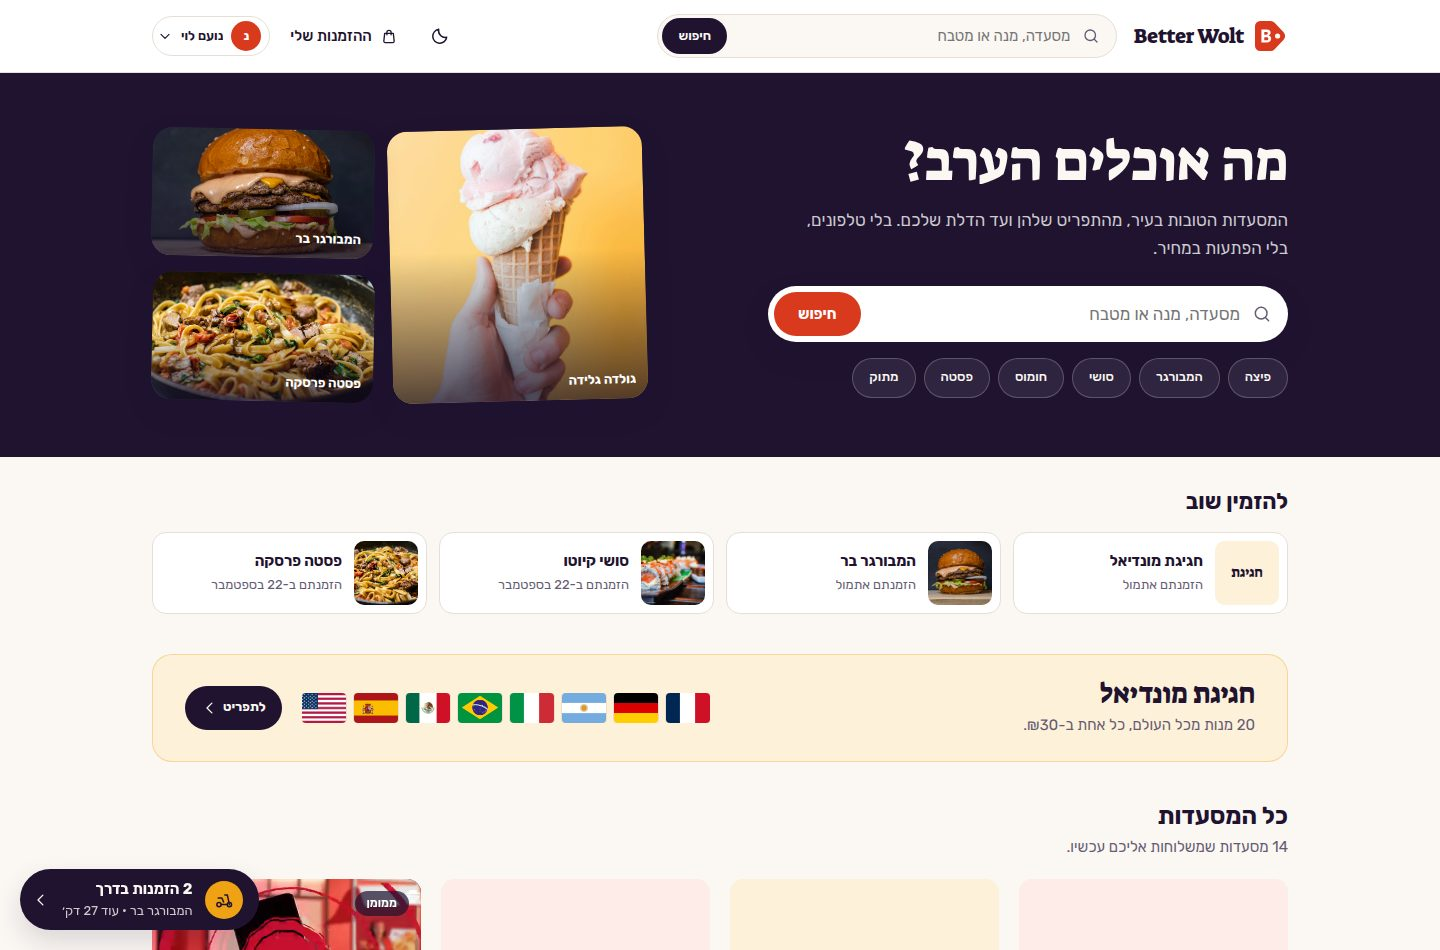
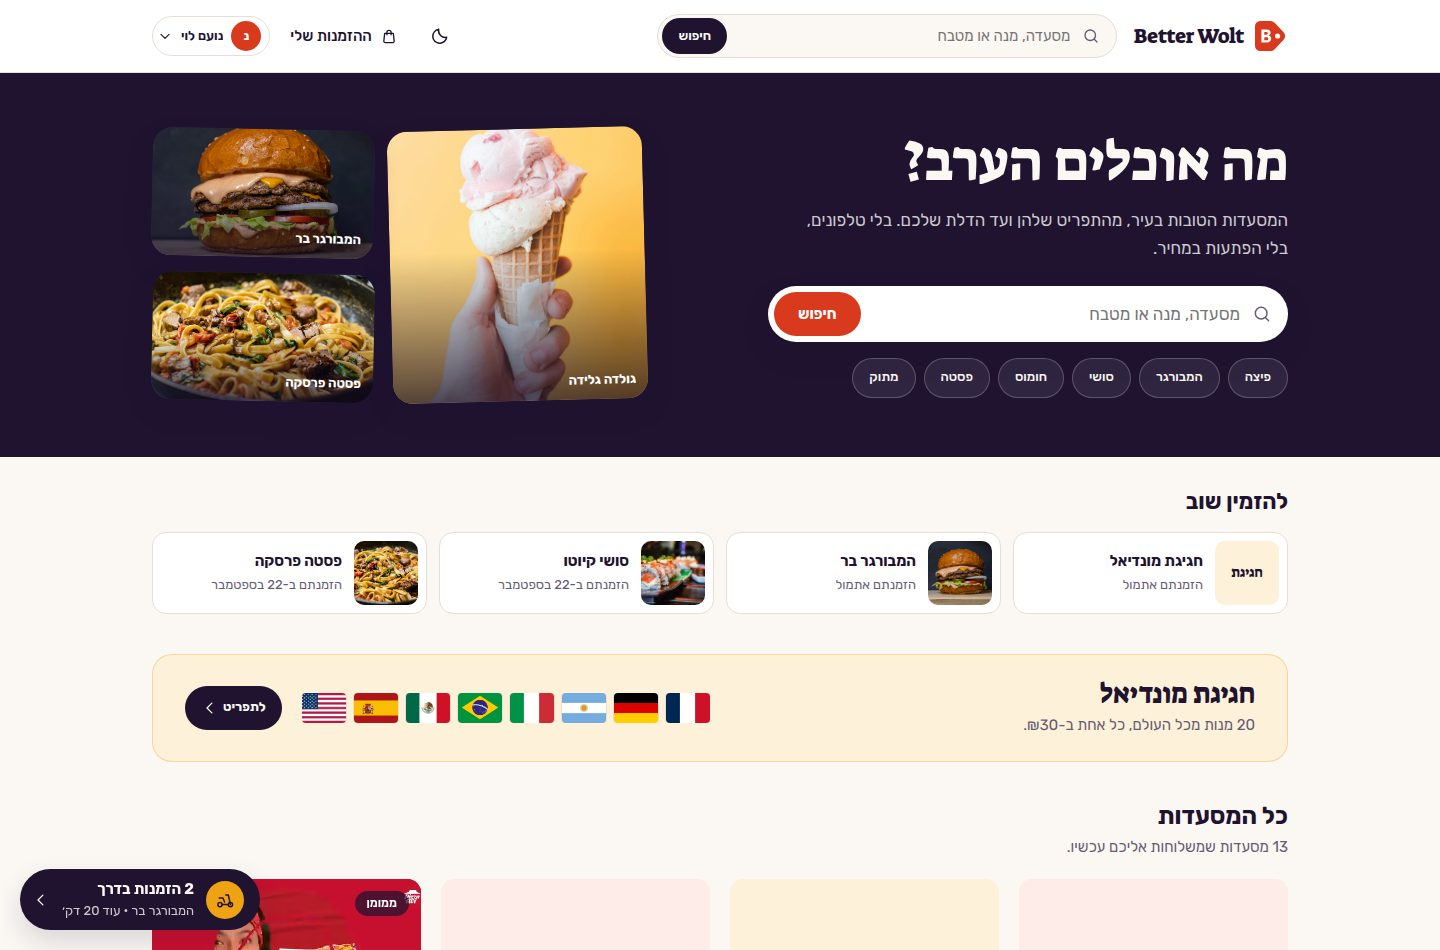
fix(web): no footer on sign-in; the footer names what is illustrative
- The footer is not rendered on /login and /register, which fill the
  screen with one task (audit C3).
- Its note said only the photos were illustrative; ratings, delivery
  times and fees are derived by the client too, and now it says so.
- The three home screenshots are retaken: they were captured while a
  restaurant left by a crashed smoke-test run existed (its count read
  14). That restaurant is deleted; the dev database has the same 14
  restaurants it had at the start of V4.

Verified: web Jest 38/38, eslint clean; Chrome /login at 1440 (no
footer) and home at 390 scrolled to the footer.

Changed region(s): [[0.0625, 0.9158, 0.3125, 1.0], [0.8125, 0.8853, 0.8438, 0.9158]]

diff --git a/web-server/client/src/components/layout/AppFooter.jsx b/web-server/client/src/components/layout/AppFooter.jsx
@@ -1,10 +1,20 @@
-import { Link } from 'react-router-dom';
+import { Link, useLocation } from 'react-router-dom';
 import Logo from '../brand/Logo';
 import './AppFooter.css';
 
-/* Quiet closing band: it orients, it does not sell. */
+/* Quiet closing band: it orients, it does not sell. Not on the sign-in
+   and registration pages, which fill the screen with one task and have
+   nothing below it to orient (V4 audit C3). */
+
+const FOCUSED_PATHS = ['/login', '/register'];
 
 export default function AppFooter() {
+  const { pathname } = useLocation();
+
+  if (FOCUSED_PATHS.includes(pathname)) {
+    return null;
+  }
+
   return (
     <footer className="bw-footer">
       <div className="bw-footer__inner">
@@ -19,8 +29,11 @@ export default function AppFooter() {
         </nav>
       </div>
 
+      {/* The API has no rating, delivery time or fee; the clients derive
+          them for display (services/restaurantMeta.js), so they are
+          named here along with the photos. */}
       <p className="bw-footer__note">
-        Better Wolt — פרויקט לדוגמה. התמונות להמחשה בלבד.
+        Better Wolt — פרויקט לדוגמה. התמונות, הדירוגים, זמני המשלוח ודמי המשלוח להמחשה בלבד.
       </p>
     </footer>
   );

diff --git a/docs/V4_VISUAL_AUDIT.md b/docs/V4_VISUAL_AUDIT.md
@@ -169,7 +169,7 @@ Run on `v4/premium-frontend` after the implementation phases, against the same p
 | B8 | Fixed | Theme follows the system until chosen, applied before first paint. |
 | C1 | Fixed | Owner tools in the side column; row actions beside the dish. |
 | C2 | Fixed | The stepper's − is neutral. |
-| C3 | Open | The footer still shows on auth and tracking pages. |
+| C3 | Fixed | No footer on sign-in and registration; tracking keeps it (it leads on to the menu and orders). |
 | C4 | Fixed | Sticky carts stretch their column (restaurant and World Cup). |
 
 ### Found during V4 QA and fixed
@@ -182,6 +182,7 @@ recorded in its commit.
 
 ### Still open
 
-- C3 (footer on focused pages), heuristic 10 (the illustrative data is explained only in the footer).
+- Heuristic 10: the illustrative ratings, delivery times and fees are named in the footer note (it used to name only
+  the photos), but nowhere next to the numbers themselves.
 - On Expo web an unbroken Latin dish name overflows its row; react-native-web does not break inside words and Android
   does. It stays on the device list in V3_IMPLEMENTATION_PLAN.
